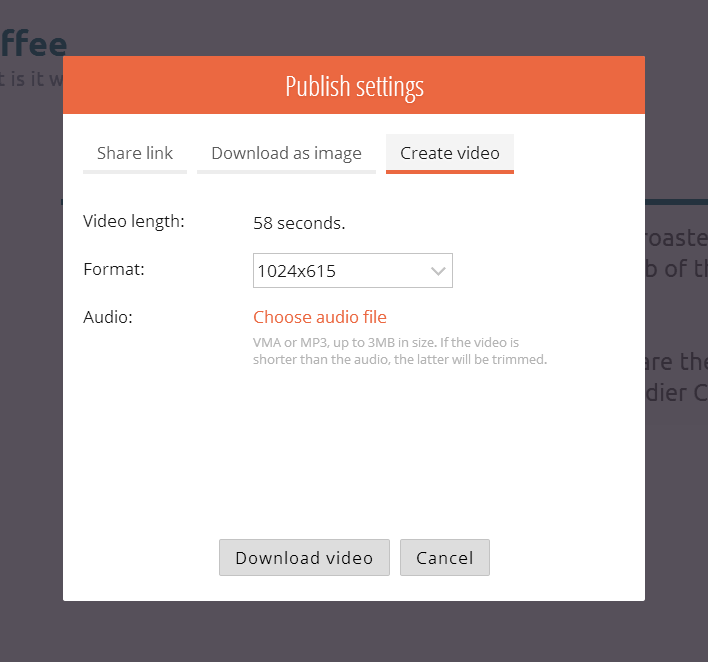
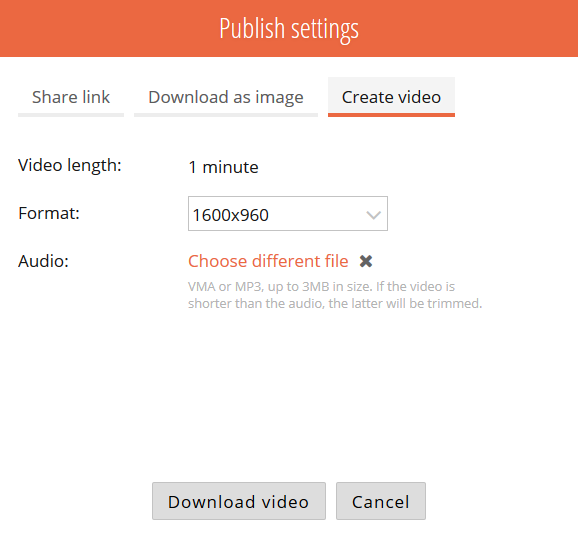
New blog post.

diff --git a/_posts/2014-09-28-video-infographics-are-here.md b/_posts/2014-09-28-video-infographics-are-here.md
@@ -1,0 +1,28 @@
+---
+layout: post
+title: Video infographics are here!
+---
+
+# Video infographics are here!
+
+We're extremely excited to announce the beta release of video infographics in Sprites! With this feature you can take your entire infographic and export it to a video file. As an option you can specify an audio file of your choice which is great for adding background music or narration to your infographics.
+
+If you'd like to participate in a beta program, go to [spritesapp.com/video]https://spritesapp.com/video, click "Contact us", fill out the form (don't forget to specify your email so we can contact you back) and we will be in touch shortly with all the details you need to get started!
+
+Once video export is enabled for your subscription plan, you'll see a new option - "Create video" - under the "Publish" menu item:
+
+![Create video](/assets/img/posts/video-export-dialog.png "Create video")
+
+You can choose the format of your video file (read, quality) as well as an audio track to be mixed with the video. Sprites also tells you how long your infographic is going to be playing (the value is approximate although it’s very close to the actual one). When you’re ready, click "Download video" and be patient while we’re exporting your infographic. The time it will take to complete an export is greater than or equal to the length of the video so in the example above, I’d have to wait for at least 1 minute before Sprites offers me the video file. Don’t worry – you’ll be able to track the progress (there will be a countdown timer). Once the export completes, the browser will ask you to save the video file on your disk.
+
+Let's take a look at the example. Here's a quick infographic about Stanford University:
+
+<iframe width="640" height="480" src="//www.youtube.com/embed/aYLAg78qunY" frameborder="0" allowfullscreen></iframe>
+
+([Watch on YouTube](https://www.youtube.com/watch?v=aYLAg78qunY), [View infographic](https://spritesapp.com/edit/12621))
+
+As always, if you have any feedback (questions, comments, bug reports, etc.) - don't hesitate to reach out to us by using the [contact form](https://spritesapp.com/contact) or connect with us via [Facebook](https://facebook.com/spritesapp) or [Twitter](https://twitter.com/spritesapp).
+
+Enjoy!
+
+Sprites team.
